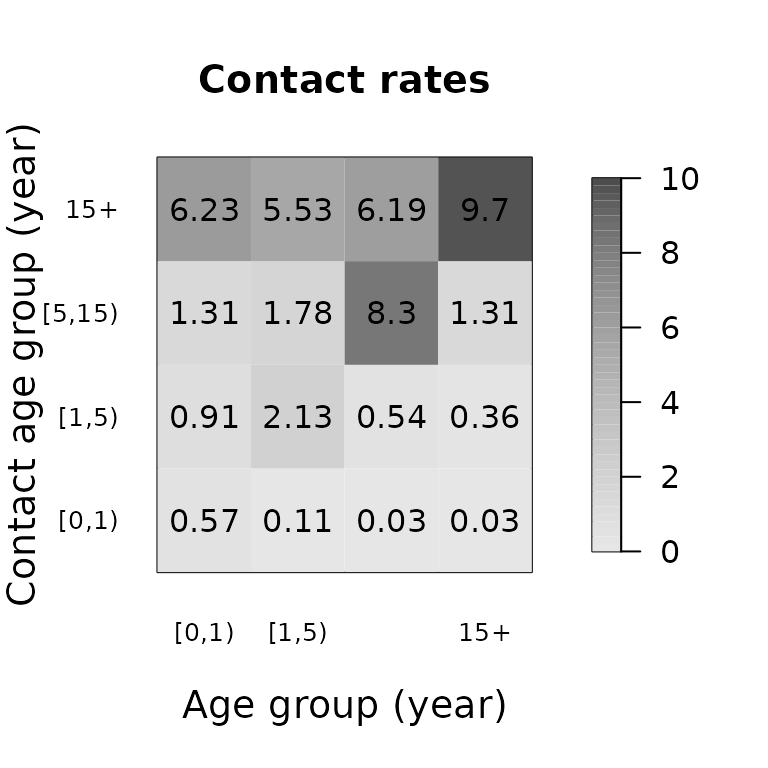
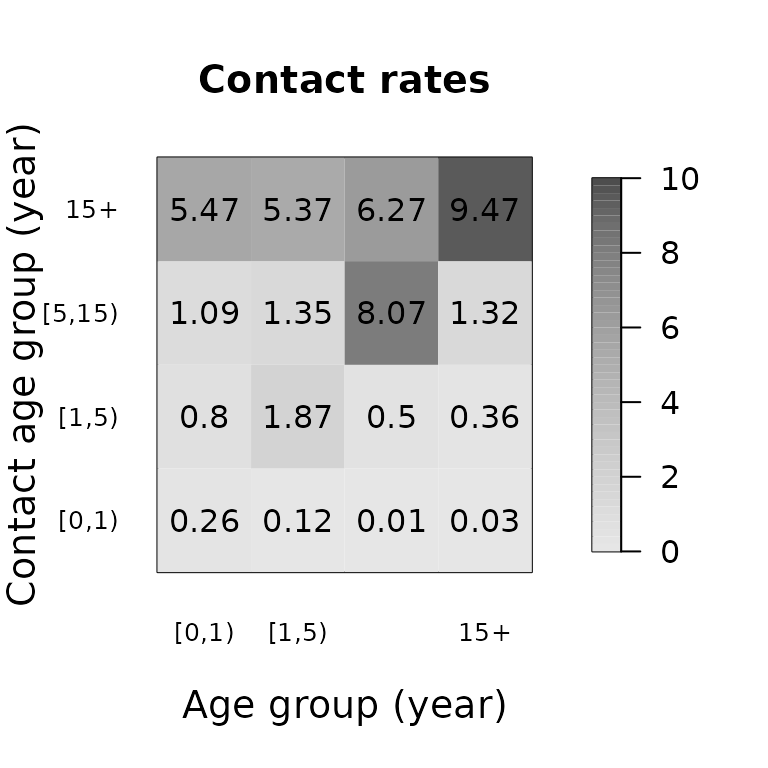
Deploying to gh-pages from @ epiforecasts/socialmixr@4f6137386453602e0c2ba712e80babd9b3c854d6 🚀

diff --git a/articles/socialmixr.html b/articles/socialmixr.html
@@ -26,7 +26,7 @@
     
     <a class="navbar-brand me-2" href="../index.html">socialmixr</a>
 
-    <small class="nav-text text-muted me-auto" data-bs-toggle="tooltip" data-bs-placement="bottom" title="">0.3.1</small>
+    <small class="nav-text text-muted me-auto" data-bs-toggle="tooltip" data-bs-placement="bottom" title="">0.3.1.9000</small>
 
     
     <button class="navbar-toggler" type="button" data-bs-toggle="collapse" data-bs-target="#navbar" aria-controls="navbar" aria-expanded="false" aria-label="Toggle navigation">
@@ -225,10 +225,10 @@ be obtained, for example the mean:</p>
 <span><span class="va">mr</span></span>
 <span><span class="co">#&gt;          contact.age.group</span></span>
 <span><span class="co">#&gt; age.group      [0,1)     [1,5)   [5,15)      15+</span></span>
-<span><span class="co">#&gt;    [0,1)  0.57197995 0.9102536 1.310324 6.233891</span></span>
-<span><span class="co">#&gt;    [1,5)  0.11279134 2.1271594 1.781713 5.534918</span></span>
-<span><span class="co">#&gt;    [5,15) 0.02869842 0.5412448 8.299347 6.187636</span></span>
-<span><span class="co">#&gt;    15+    0.03117501 0.3643759 1.313569 9.700534</span></span></code></pre></div>
+<span><span class="co">#&gt;    [0,1)  0.26283411 0.7995047 1.094924 5.470833</span></span>
+<span><span class="co">#&gt;    [1,5)  0.12106678 1.8703044 1.346465 5.365681</span></span>
+<span><span class="co">#&gt;    [5,15) 0.01001063 0.4984115 8.065247 6.267952</span></span>
+<span><span class="co">#&gt;    15+    0.03088128 0.3594191 1.321367 9.474507</span></span></code></pre></div>
 </div>
 <div class="section level2">
 <h2 id="demography">Demography<a class="anchor" aria-label="anchor" href="#demography"></a>

diff --git a/news/index.html b/news/index.html
@@ -10,7 +10,7 @@
     
     <a class="navbar-brand me-2" href="../index.html">socialmixr</a>
 
-    <small class="nav-text text-muted me-auto" data-bs-toggle="tooltip" data-bs-placement="bottom" title="">0.3.1</small>
+    <small class="nav-text text-muted me-auto" data-bs-toggle="tooltip" data-bs-placement="bottom" title="">0.3.1.9000</small>
 
     
     <button class="navbar-toggler" type="button" data-bs-toggle="collapse" data-bs-target="#navbar" aria-controls="navbar" aria-expanded="false" aria-label="Toggle navigation">
@@ -47,6 +47,9 @@
       <small>Source: <a href="https://github.com/epiforecasts/socialmixr/blob/HEAD/NEWS.md" class="external-link"><code>NEWS.md</code></a></small>
     </div>
 
+    <div class="section level2">
+<h2 class="pkg-version" data-toc-text="development version" id="socialmixr-development-version">socialmixr (development version)<a class="anchor" aria-label="anchor" href="#socialmixr-development-version"></a></h2>
+</div>
     <div class="section level2">
 <h2 class="pkg-version" data-toc-text="0.3.1" id="socialmixr-031">socialmixr 0.3.1<a class="anchor" aria-label="anchor" href="#socialmixr-031"></a></h2><p class="text-muted">CRAN release: 2023-10-26</p>
 <ul><li>Tests were updated to prevent failures due to machine precision issues on some platforms (<a href="https://github.com/epiforecasts/socialmixr/issues/100" class="external-link">#100</a>)</li>

diff --git a/reference/polymod.html b/reference/polymod.html
@@ -20,7 +20,7 @@ to the Spread of Infectious Diseases. PLoS Med 5(3): e74."><!-- mathjax --><scri
     
     <a class="navbar-brand me-2" href="../index.html">socialmixr</a>
 
-    <small class="nav-text text-muted me-auto" data-bs-toggle="tooltip" data-bs-placement="bottom" title="">0.3.1</small>
+    <small class="nav-text text-muted me-auto" data-bs-toggle="tooltip" data-bs-placement="bottom" title="">0.3.1.9000</small>
 
     
     <button class="navbar-toggler" type="button" data-bs-toggle="collapse" data-bs-target="#navbar" aria-controls="navbar" aria-expanded="false" aria-label="Toggle navigation">

diff --git a/reference/wpp_age.html b/reference/wpp_age.html
@@ -14,7 +14,7 @@ in the historical data, wpp projections are used."><!-- mathjax --><script src="
     
     <a class="navbar-brand me-2" href="../index.html">socialmixr</a>
 
-    <small class="nav-text text-muted me-auto" data-bs-toggle="tooltip" data-bs-placement="bottom" title="">0.3.1</small>
+    <small class="nav-text text-muted me-auto" data-bs-toggle="tooltip" data-bs-placement="bottom" title="">0.3.1.9000</small>
 
     
     <button class="navbar-toggler" type="button" data-bs-toggle="collapse" data-bs-target="#navbar" aria-controls="navbar" aria-expanded="false" aria-label="Toggle navigation">

diff --git a/404.html b/404.html
@@ -24,7 +24,7 @@
     
     <a class="navbar-brand me-2" href="https://epiforecasts.io/socialmixr/index.html">socialmixr</a>
 
-    <small class="nav-text text-muted me-auto" data-bs-toggle="tooltip" data-bs-placement="bottom" title="">0.3.1</small>
+    <small class="nav-text text-muted me-auto" data-bs-toggle="tooltip" data-bs-placement="bottom" title="">0.3.1.9000</small>
 
     
     <button class="navbar-toggler" type="button" data-bs-toggle="collapse" data-bs-target="#navbar" aria-controls="navbar" aria-expanded="false" aria-label="Toggle navigation">

diff --git a/articles/index.html b/articles/index.html
@@ -10,7 +10,7 @@
     
     <a class="navbar-brand me-2" href="../index.html">socialmixr</a>
 
-    <small class="nav-text text-muted me-auto" data-bs-toggle="tooltip" data-bs-placement="bottom" title="">0.3.1</small>
+    <small class="nav-text text-muted me-auto" data-bs-toggle="tooltip" data-bs-placement="bottom" title="">0.3.1.9000</small>
 
     
     <button class="navbar-toggler" type="button" data-bs-toggle="collapse" data-bs-target="#navbar" aria-controls="navbar" aria-expanded="false" aria-label="Toggle navigation">

diff --git a/reference/check.html b/reference/check.html
@@ -10,7 +10,7 @@
     
     <a class="navbar-brand me-2" href="../index.html">socialmixr</a>
 
-    <small class="nav-text text-muted me-auto" data-bs-toggle="tooltip" data-bs-placement="bottom" title="">0.3.1</small>
+    <small class="nav-text text-muted me-auto" data-bs-toggle="tooltip" data-bs-placement="bottom" title="">0.3.1.9000</small>
 
     
     <button class="navbar-toggler" type="button" data-bs-toggle="collapse" data-bs-target="#navbar" aria-controls="navbar" aria-expanded="false" aria-label="Toggle navigation">

diff --git a/reference/cite.html b/reference/cite.html
@@ -10,7 +10,7 @@
     
     <a class="navbar-brand me-2" href="../index.html">socialmixr</a>
 
-    <small class="nav-text text-muted me-auto" data-bs-toggle="tooltip" data-bs-placement="bottom" title="">0.3.1</small>
+    <small class="nav-text text-muted me-auto" data-bs-toggle="tooltip" data-bs-placement="bottom" title="">0.3.1.9000</small>
 
     
     <button class="navbar-toggler" type="button" data-bs-toggle="collapse" data-bs-target="#navbar" aria-controls="navbar" aria-expanded="false" aria-label="Toggle navigation">

diff --git a/reference/clean.html b/reference/clean.html
@@ -10,7 +10,7 @@
     
     <a class="navbar-brand me-2" href="../index.html">socialmixr</a>
 
-    <small class="nav-text text-muted me-auto" data-bs-toggle="tooltip" data-bs-placement="bottom" title="">0.3.1</small>
+    <small class="nav-text text-muted me-auto" data-bs-toggle="tooltip" data-bs-placement="bottom" title="">0.3.1.9000</small>
 
     
     <button class="navbar-toggler" type="button" data-bs-toggle="collapse" data-bs-target="#navbar" aria-controls="navbar" aria-expanded="false" aria-label="Toggle navigation">

diff --git a/reference/contact_matrix.html b/reference/contact_matrix.html
@@ -10,7 +10,7 @@
     
     <a class="navbar-brand me-2" href="../index.html">socialmixr</a>
 
-    <small class="nav-text text-muted me-auto" data-bs-toggle="tooltip" data-bs-placement="bottom" title="">0.3.1</small>
+    <small class="nav-text text-muted me-auto" data-bs-toggle="tooltip" data-bs-placement="bottom" title="">0.3.1.9000</small>
 
     
     <button class="navbar-toggler" type="button" data-bs-toggle="collapse" data-bs-target="#navbar" aria-controls="navbar" aria-expanded="false" aria-label="Toggle navigation">

diff --git a/reference/download_survey.html b/reference/download_survey.html
@@ -10,7 +10,7 @@
     
     <a class="navbar-brand me-2" href="../index.html">socialmixr</a>
 
-    <small class="nav-text text-muted me-auto" data-bs-toggle="tooltip" data-bs-placement="bottom" title="">0.3.1</small>
+    <small class="nav-text text-muted me-auto" data-bs-toggle="tooltip" data-bs-placement="bottom" title="">0.3.1.9000</small>
 
     
     <button class="navbar-toggler" type="button" data-bs-toggle="collapse" data-bs-target="#navbar" aria-controls="navbar" aria-expanded="false" aria-label="Toggle navigation">

diff --git a/reference/get_citation.html b/reference/get_citation.html
@@ -10,7 +10,7 @@
     
     <a class="navbar-brand me-2" href="../index.html">socialmixr</a>
 
-    <small class="nav-text text-muted me-auto" data-bs-toggle="tooltip" data-bs-placement="bottom" title="">0.3.1</small>
+    <small class="nav-text text-muted me-auto" data-bs-toggle="tooltip" data-bs-placement="bottom" title="">0.3.1.9000</small>
 
     
     <button class="navbar-toggler" type="button" data-bs-toggle="collapse" data-bs-target="#navbar" aria-controls="navbar" aria-expanded="false" aria-label="Toggle navigation">
